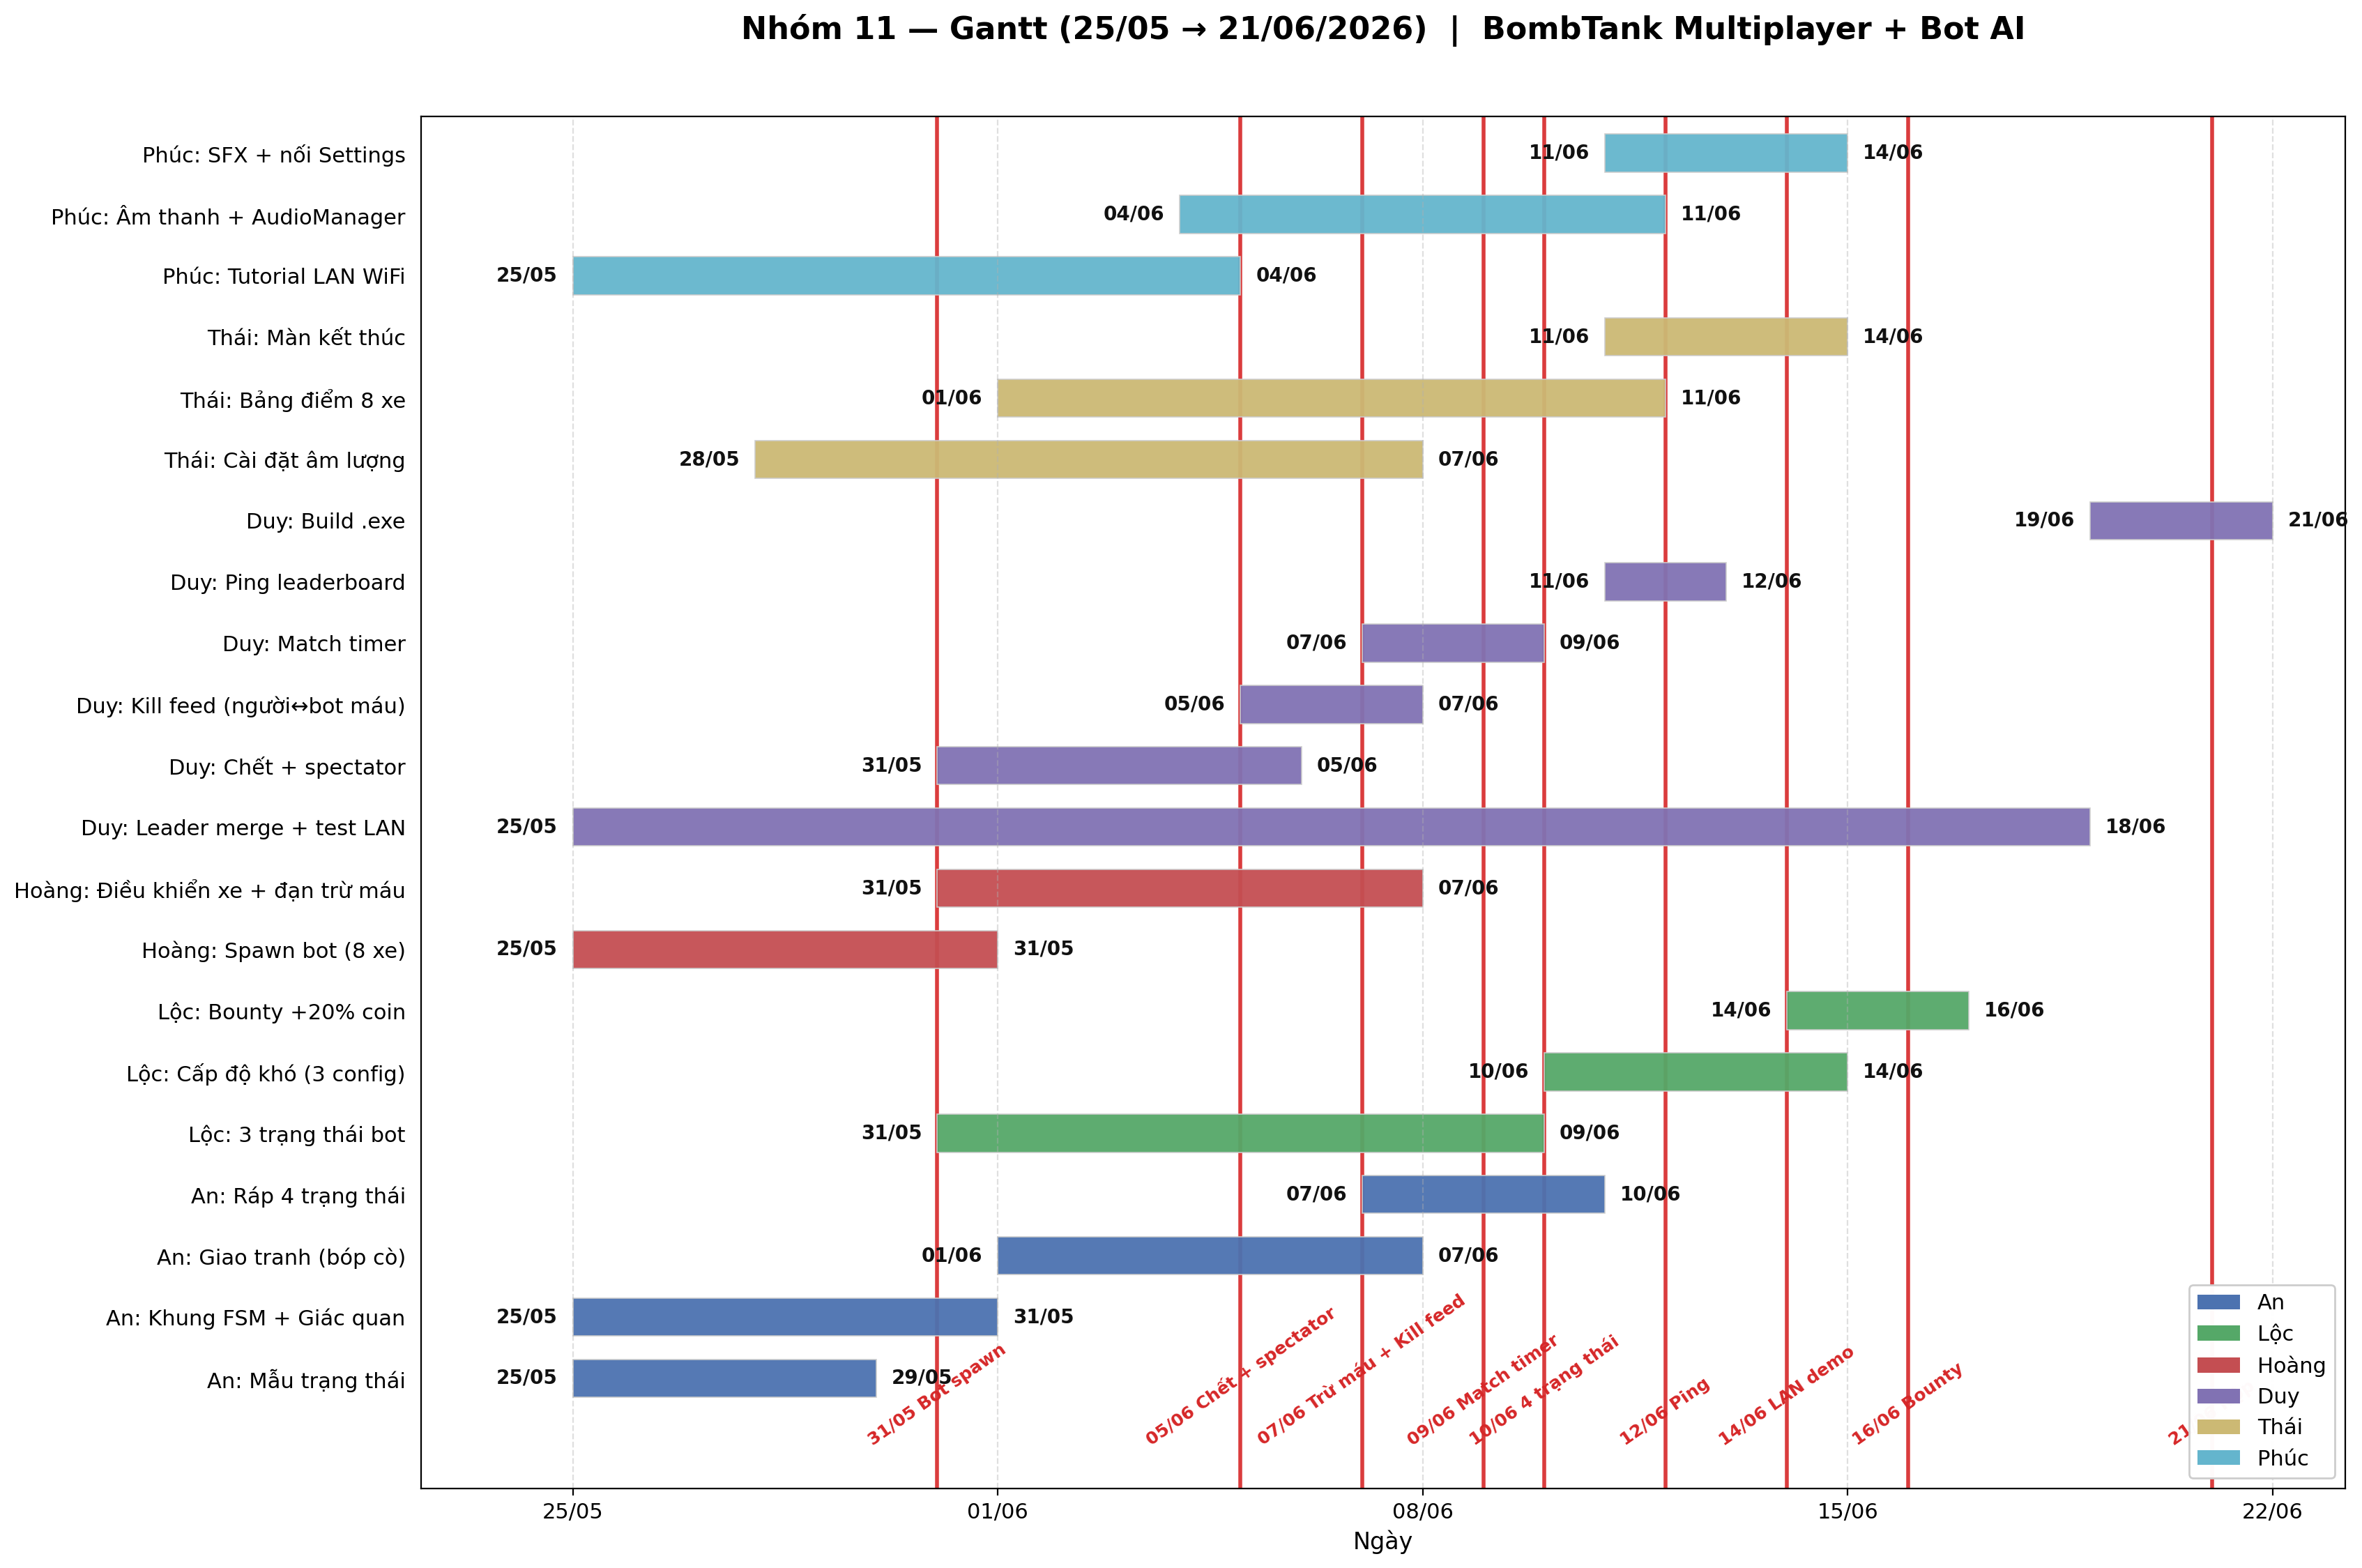
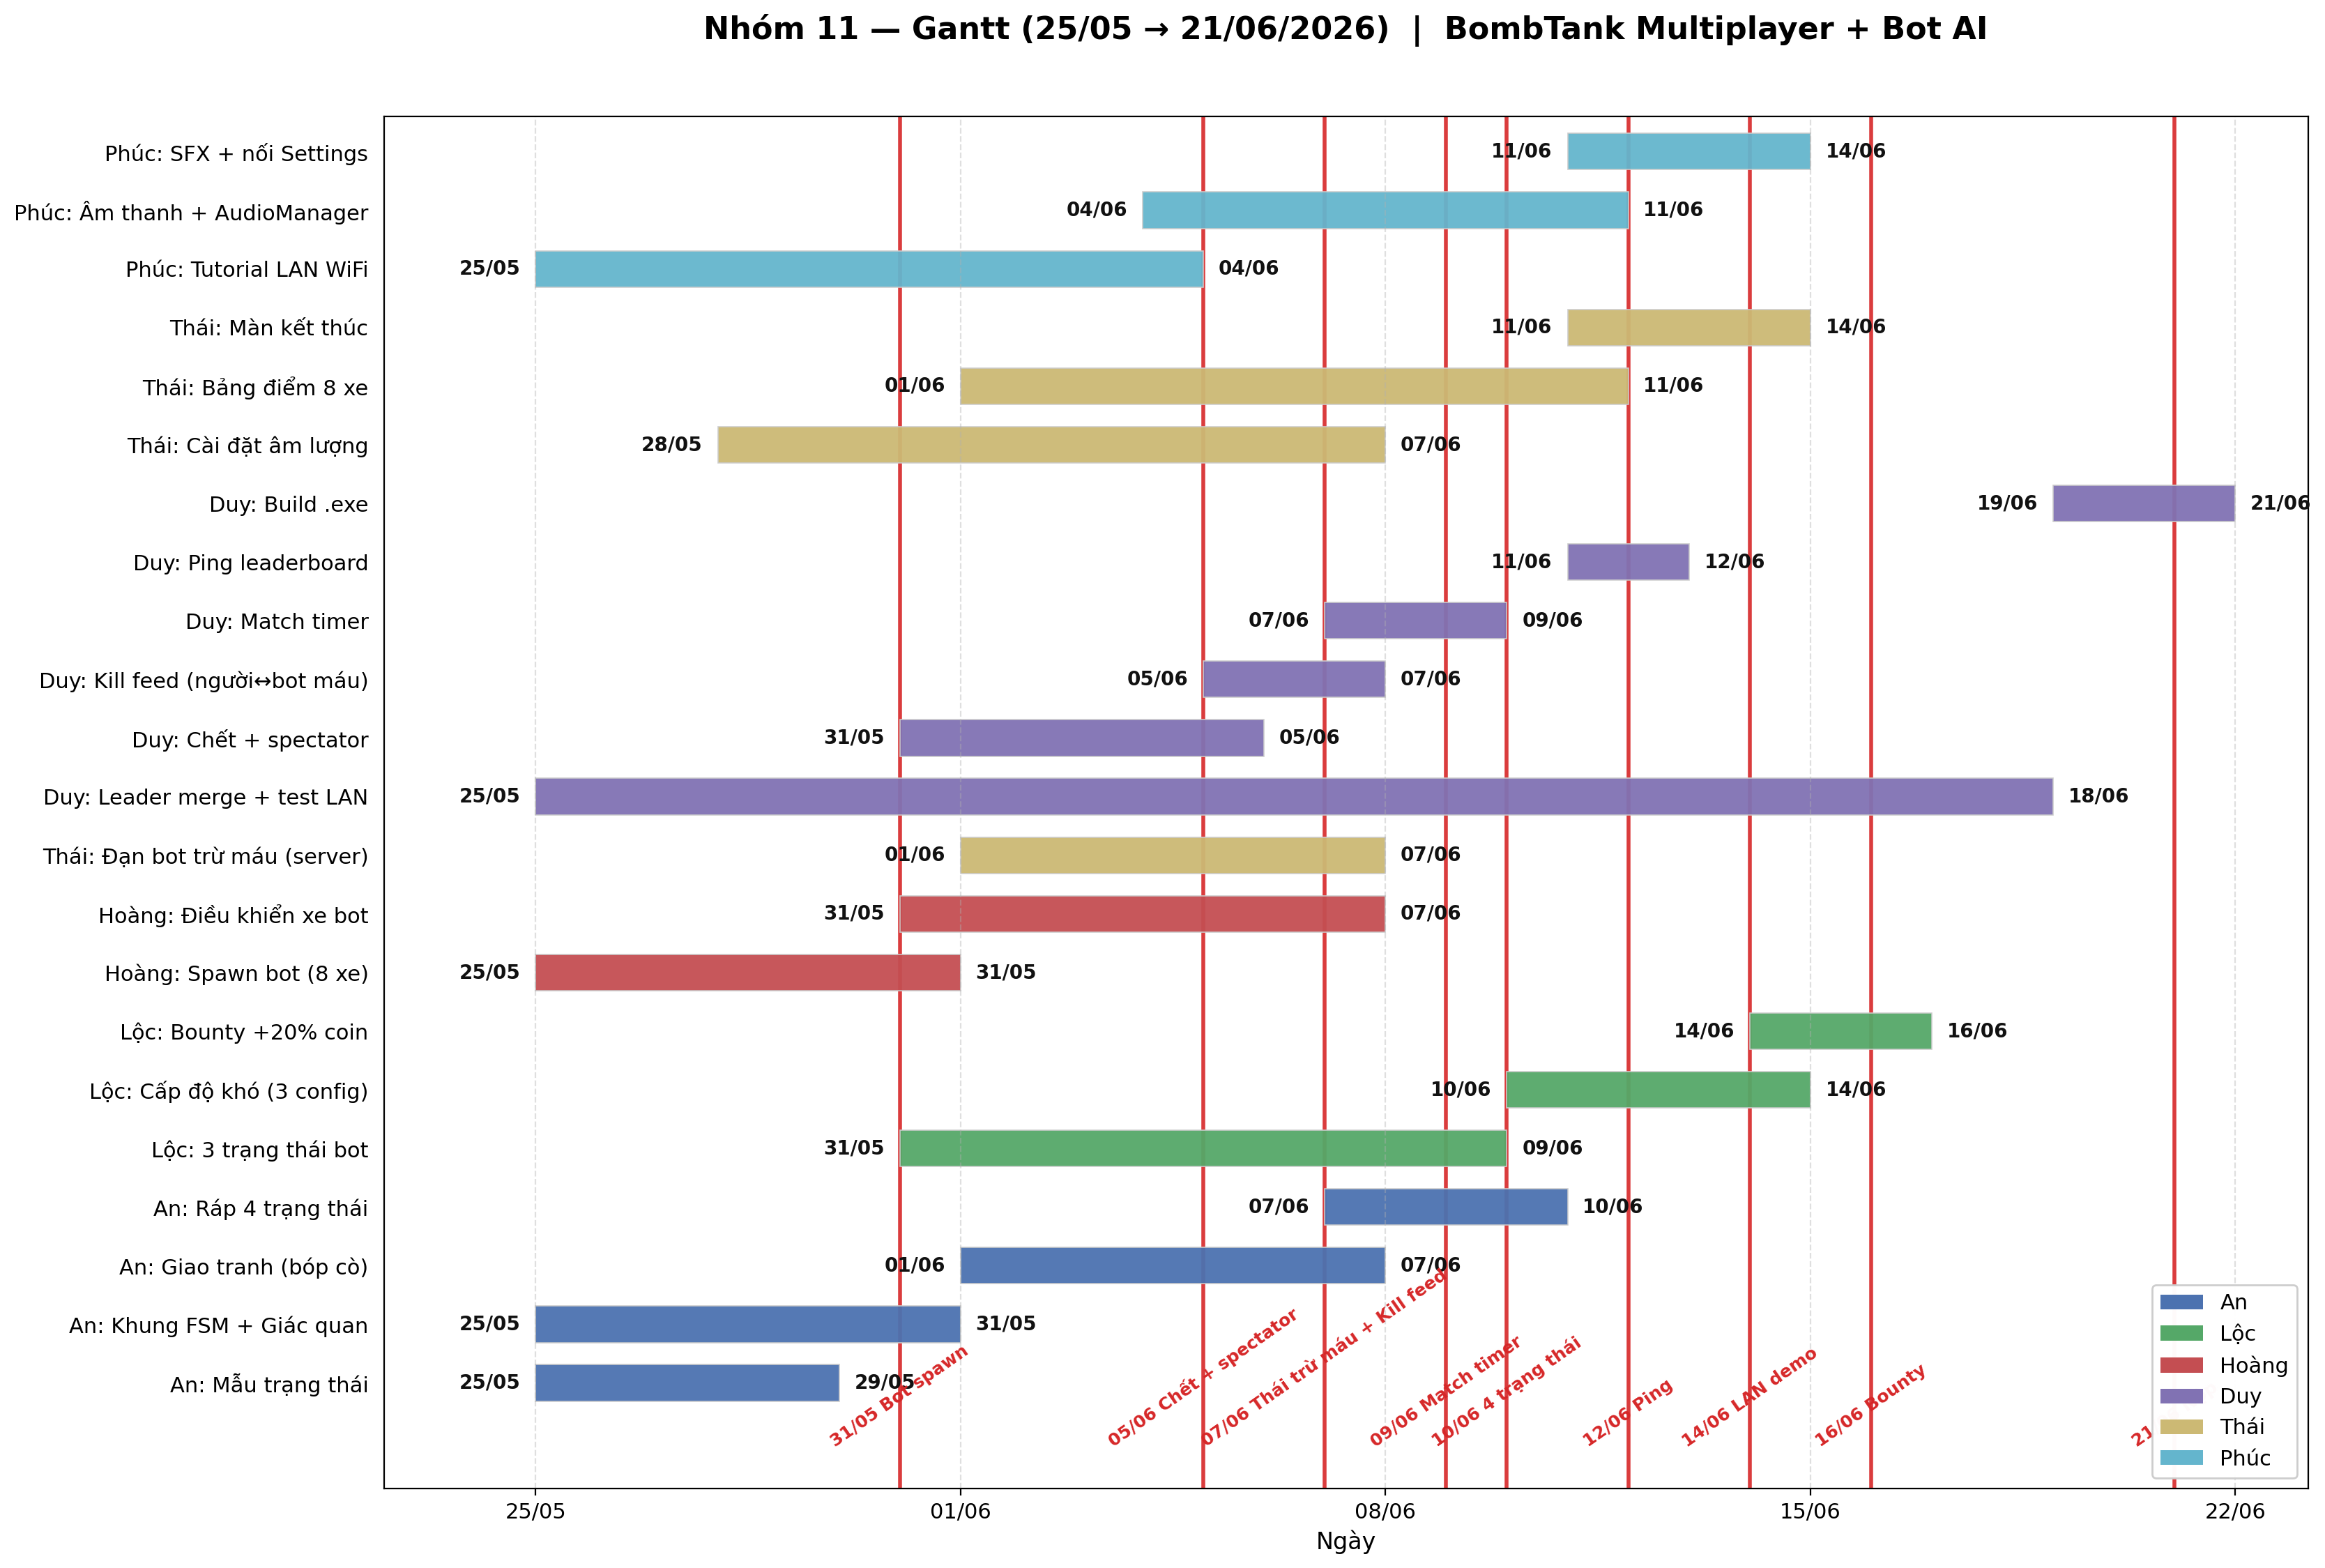
docs: gán đạn bot trừ máu cho Thái, cập nhật Gantt

diff --git a/Docs/Nhom11_KeHoachBotAI.md b/Docs/Nhom11_KeHoachBotAI.md
@@ -7,7 +7,7 @@
 
 ![Sơ đồ Gantt nhóm 11](Nhom11_Gantt.png)
 
-*Máu / combat hai chiều trên Gantt: gộp trong **Hoàng: Điều khiển xe + đạn trừ máu** và **Duy: Kill feed**. Mốc **07/06**.*
+*Máu / combat hai chiều trên Gantt: **Thái: Đạn bot trừ máu (server)** + **Duy: Kill feed**. Mốc **07/06**.*
 
 **Quy tắc Git:**
 
@@ -26,19 +26,19 @@
 ## 1. Thứ tự làm (ai cần ai)
 
 ```
-Hoàng (spawn + điều khiển + đạn 2 chiều: bot↔người trừ HP) ────┐
+Hoàng (spawn + điều khiển xe — bóp cò gọi API Thái) ──────────┐
                                                                ├─► Đánh nhau thật ──► Duy test LAN
 An + Lộc (bot brain — 4 trạng thái, Giao tranh bóp cò) ───────┘         Kill feed cần credit 2 chiều
 
-Thái (Settings + Bảng điểm + Màn kết thúc)  ─── làm song song, Bảng điểm chờ nhãn bot của Hoàng
+Thái (đạn trừ máu server + Settings + Bảng điểm + Màn kết thúc) ─ Bảng điểm chờ nhãn bot Hoàng
 Phúc (Tutorial + Âm thanh + Hiệu ứng SFX)   ─── làm song song, cuối nối nhạc với Settings của Thái
 ```
 
-**Mấu chốt:** Hoàng spawn bot xong (31/05) là "cú mở khoá" cho An/Lộc/Thái cùng chạy. Combat phải **hai chiều trên server**:
-- **Bot bắn → người/bot mất máu** (Hoàng 2b — đạn bot + `SetOwner`).
-- **Người thật bắn → bot mất máu và chết được** (đường đạn người trong `BoPhongDan` + `GhiNhanSatThuongTu` — Duy giữ pipeline, Hoàng đảm bảo bot không chặn va chạm/team sai).
+**Mấu chốt:** Hoàng spawn bot xong (31/05) là "cú mở khoá" cho An/Lộc. Combat phải **hai chiều trên server** — **Thái** làm phần đạn/sát thương:
+- **Bot bắn → người/bot mất máu** (Thái: spawn `ServerDanPrefab` khi brain bóp cò + `SetOwner(bot)`).
+- **Người thật bắn → bot mất máu, chết được** (Thái kiểm tra pipeline `BoPhongDan` + team/collider; Duy giữ `mau.cs` / kill credit).
 
-Chỉ bot đi/xoay nòng **chưa đủ**. An+Lộc làm bot brain; Thái/Phúc UI/âm thanh song song.
+Hoàng chỉ **spawn + điều khiển** (đi, ngắm, chuyển tín hiệu bóp cò). An+Lộc bot brain; Duy kill feed + respawn.
 
 ---
 
@@ -151,26 +151,11 @@ Bot brain đọc số từ config (không hard-code). **Không cần UI chọn c
 
 **Phần 2 — Điều khiển xe bot (31/05 → 07/06):**
 
-- Sửa 3 file điều khiển xe (đang dùng cho người chơi) để khi xe đó là bot (có nhãn ở phần 1), nó nghe lệnh từ bot brain của An thay vì nghe chuột/bàn phím:
+- Sửa 2 file điều khiển xe (khi có nhãn bot) để nghe lệnh từ bot brain của An thay vì chuột/bàn phím:
   - File di chuyển xe
   - File xoay nòng súng
-  - File bắn đạn
+- Khi brain báo **bóp cò** → gọi API bắn của **Thái** (Hoàng không tự spawn đạn server).
 - Tắt camera của bot (camera chỉ dành cho người thật).
-
-**Phần 2b — Sát thương hai chiều trên server (07/06, gắn phần 2):**
-
-| Hướng | Ai làm | Việc |
-| ----- | ------ | ---- |
-| **Bot → người/bot** | **Hoàng** | API bắn server khi brain bóp cò; spawn `ServerDanPrefab`; `SetOwner(bot)` |
-| **Người → bot** | **Duy** (đã có) + **Hoàng** kiểm tra | Đạn người qua `BoPhongDan` server RPC; `SetOwner(TankPlayer)`; bot **không** bị loại friendly fire/team sai |
-
-**Test bắt buộc (cả 4 case):**
-1. Người bắn bot → máu bot giảm → bot chết được → kill feed *TênNgười → TênBot*.
-2. Bot bắn người → máu người giảm → kill feed khi chết.
-3. Bot bắn bot → máu giảm.
-4. Người bắn người (LAN 2 máy) → vẫn hoạt động như cũ.
-
-*Ghi chú:* Bot chết **không** hồi sinh (`RespawnHandler` bỏ qua `IsBot`) — có thể despawn hoặc để Hoàng/An quyết sau; quan trọng là **chết được** và feed/bounty nhận killer.
 
 **Bàn giao cho:**
 
@@ -181,8 +166,7 @@ Bot brain đọc số từ config (không hard-code). **Không cần UI chọn c
 **Xong khi:** 
 
 - Phần 1: vào trận thấy 7 xe bot đứng yên trên map, mỗi xe 1 tên khác nhau, rủ thêm 1 người vào thì bot tự bớt còn 6.
-- Phần 2: bot tự đi, tự xoay nòng, tự bắn — không cần ai động vào chuột.
-- Phần 2b: **hai chiều** — người giết bot được; bot giết người/bot được; HP giảm trên server; kill feed có đủ case.
+- Phần 2: bot tự đi, tự xoay nòng; khi bóp cò thì Thái xử lý đạn (xem mục Thái).
 
 ---
 
@@ -217,7 +201,7 @@ Bot brain đọc số từ config (không hard-code). **Không cần UI chọn c
 - **Giữa màn hình, căn lề trái**: mỗi lần có xe bắn chết xe → hiện 1 dòng *"Lộc → SteelWolf"* trong 4 giây rồi tự biến mất (tránh đè leaderboard góc phải).
 - Tên **người thật màu vàng**, tên **bot màu trắng** (đồng bộ với bảng điểm của Thái).
 - Lắng nghe event `KhiChet` + `TryLayKeGiet` / `GhiNhanSatThuongTu` trong `mau.cs` + nhãn bot của Hoàng.
-- *Phụ thuộc:* Hoàng phần 1 (nhãn bot) + **combat hai chiều** (Hoàng 2b bot bắn + pipeline người bắn bot của Duy/Hoàng). Kill feed phải hiện cả *người → bot* và *bot → người*.
+- *Phụ thuộc:* Hoàng phần 1 (nhãn bot) + **Thái xong đạn trừ máu** (bot bắn + người bắn bot). Kill feed hiện *người → bot* và *bot → người*.
 
 **2.3. Match Timer** (07/06 → 09/06, ~2 ngày) — `feature/match-timer`
 
@@ -241,14 +225,26 @@ Bot brain đọc số từ config (không hard-code). **Không cần UI chọn c
 
 ---
 
-### Thái — Cài đặt + Bảng điểm + Màn kết thúc
+### Thái — Đạn trừ máu + Cài đặt + Bảng điểm + Màn kết thúc
 
-**Nhánh:** `feature/settings`, `feature/scoreboard-bot`, `feature/match-end`  
-**Hạn:** Cài đặt 07/06 · Bảng điểm 11/06 · Màn kết thúc 14/06  
-**Phụ thuộc:** Bảng điểm cần nhãn bot của Hoàng (xong 31/05) — phần còn lại không cần chờ ai.  
+**Nhánh:** `feature/bot-combat-damage`, `feature/settings`, `feature/scoreboard-bot`, `feature/match-end`  
+**Hạn:** **Đạn trừ máu 07/06** · Cài đặt 07/06 · Bảng điểm 11/06 · Màn kết thúc 14/06  
+**Phụ thuộc:** Đạn bot cần Hoàng spawn bot + An/Hoàng bot brain (bóp cò) trước 07/06. Bảng điểm cần nhãn bot Hoàng (31/05).  
 **Cần làm:**
 
-1. Màn Cài đặt: 2 thanh trượt — âm lượng nhạc và âm lượng hiệu ứng. Lưu lại để mở game lần sau vẫn nhớ.
+#### 0. Đạn bot + combat trừ máu trên server (01/06 → 07/06) — `feature/bot-combat-damage`
+
+- Khi bot brain báo **bóp cò** (tín hiệu từ Hoàng): spawn `ServerDanPrefab` trên server, `SetOwner(TankPlayer bot)`, trừ coin, trừ HP đối phương.
+- Đảm bảo **người thật bắn bot** vẫn trừ máu / chết được (`BoPhongDan`, team, collider — không immune bot).
+- Chỉ chạy trên server; phối hợp Duy (`mau.cs`, kill feed).
+
+**Test bắt buộc:**
+1. Người bắn bot → máu giảm → chết → kill feed.
+2. Bot bắn người → máu giảm → kill feed khi chết.
+3. Bot bắn bot → máu giảm.
+4. Người bắn người (LAN) → như cũ.
+
+#### 1. Màn Cài đặt: 2 thanh trượt — âm lượng nhạc và âm lượng hiệu ứng. Lưu lại để mở game lần sau vẫn nhớ.
 2. **Bảng điểm trong trận** (sửa bảng đã có sẵn — `LeaderBoard.cs`):
   - Hiển thị **cả người thật và bot** (đầy 8 dòng cho vui).
   - **Người thật**: tên hiển thị **màu vàng** + icon 👤 phía trước → để khi chơi LAN, ai cũng biết bạn mình tên gì, đang đứng thứ mấy.
@@ -267,7 +263,7 @@ Bot brain đọc số từ config (không hard-code). **Không cần UI chọn c
 
 **Lưu ý về giao diện:** game đã có sẵn phong cách UI (font, màu, nút). Bám theo phong cách cũ, đừng tự design mới kẻo lệch tông. Cách nhanh: chụp ảnh UI có sẵn, đưa cho AI kèm prompt *"thiết kế giống y phong cách này — cùng font, màu, kiểu nút"*.
 
-**Xong khi:** Vào Cài đặt chỉnh được âm lượng, hết trận có màn kết quả, **bảng điểm hiện đủ 8 tên — người thật nổi bật màu vàng** — và toàn bộ **nhìn không bị lạc lõng** so với phần còn lại của game.
+**Xong khi:** Combat hai chiều chạy (bot + người đều trừ máu). Vào Cài đặt chỉnh được âm lượng, hết trận có màn kết quả, **bảng điểm đủ 8 tên — người thật màu vàng**.
 
 ---
 
@@ -288,7 +284,7 @@ Bot brain đọc số từ config (không hard-code). **Không cần UI chọn c
   **Lấy ở đâu:** trang miễn phí bản quyền như freesound.org, pixabay.com/sound-effects, hoặc Unity Asset Store (free). **Không lấy nhạc bản quyền** (YouTube, Spotify…).
 3. **Hiệu ứng âm thanh chi tiết (SFX)** — làm game "đầy" hơn:
   - Tiếng động cơ xe chạy (loop khi xe di chuyển)
-  - Tiếng đạn **trúng** xe (khác tiếng bắn) — *sau khi Hoàng 2b / pipeline sát thương ổn*, hook khi `Mau.NhanSatThuong` hoặc event trúng đạn
+  - Tiếng đạn **trúng** xe (khác tiếng bắn) — *sau khi Thái xong pipeline sát thương*, hook khi `Mau.NhanSatThuong` hoặc event trúng đạn
   - Tiếng nổ khi xe chết
   - Tiếng click khi bấm nút UI
   - Nhạc **chiến thắng** và **thua** cho Màn kết thúc (Thái báo khi xong)
@@ -352,8 +348,8 @@ Nếu ai vắng dài (> 3 ngày): báo Zalo trước, leader chia lại việc c
 - **Lộc + Hoàng**: Lộc cần API điều khiển xe của Hoàng để 3 trạng thái "đi tới 1 điểm" chạy được.
 - **Thái + Phúc**: nối thanh trượt âm lượng + nhạc thắng/thua cho Màn kết thúc.
 - **Duy + ai cũng được**: khi test LAN gặp lỗi → ping người làm phần đó.
-- **An + Hoàng**: Giao tranh bóp cò ↔ Hoàng bắn server (phần 2b).
-- **Hoàng + Duy**: đạn bot `SetOwner` đúng → kill feed + bounty có killer.
+- **Hoàng + Thái**: brain bóp cò → Thái spawn đạn server.
+- **Thái + Duy**: trừ máu đúng → kill feed + bounty có killer.
 
 ---
 
@@ -366,10 +362,10 @@ Duy tick khi test LAN; người phụ trách sửa nếu chưa có.
 |---|------|---------------------|---------|
 | 1 | Bot spawn đủ 8 xe, có `BotTag` / `IsBot` | Hoàng (1) | `IsBot` gán **sau** `Spawn`, không `new NetworkVariable` |
 | 2 | Bot đi + xoay nòng theo brain | Hoàng (2) | Tắt input người trên xe bot |
-| 3 | **Bot bắn → đạn server → trừ HP** | **Hoàng (2b)** | `BoPhongDan` hiện skip bot — cần API bắn server |
-| 4a | **Người bắn bot → bot mất máu, chết được** | Duy + Hoàng | `BoPhongDan` server + `SetOwner`; bot không immune; test giết bot |
-| 4b | **Bot bắn → đối phương mất máu** | Hoàng (2b) | API bắn server cho bot |
-| 5 | Kill feed đủ 4 hướng (người↔người, người→bot, bot→người, bot→bot) | Duy + Hoàng | Killer credit 8s trong `mau.cs` |
+| 3 | **Bot bắn → đạn server → trừ HP** | **Thái** | API bắn khi brain bóp cò; `SetOwner(bot)` |
+| 4a | **Người bắn bot → bot mất máu, chết được** | **Thái** + Duy | `BoPhongDan` + team/collider; Duy `mau.cs` credit |
+| 4b | **Bot bắn → đối phương mất máu** | **Thái** | Cùng task 3 |
+| 5 | Kill feed đủ 4 hướng | Duy + **Thái** | Thái xong máu trước; Duy kill feed |
 | 6 | Chết bot **không** respawn như người | Duy | `RespawnHandler` bỏ qua `IsBot` |
 | 7 | Chết người: spectator + hồi sinh | Duy | |
 | 8 | Match timer sync + hết giờ | Duy | Nối màn kết thúc Thái sau 14/06 |